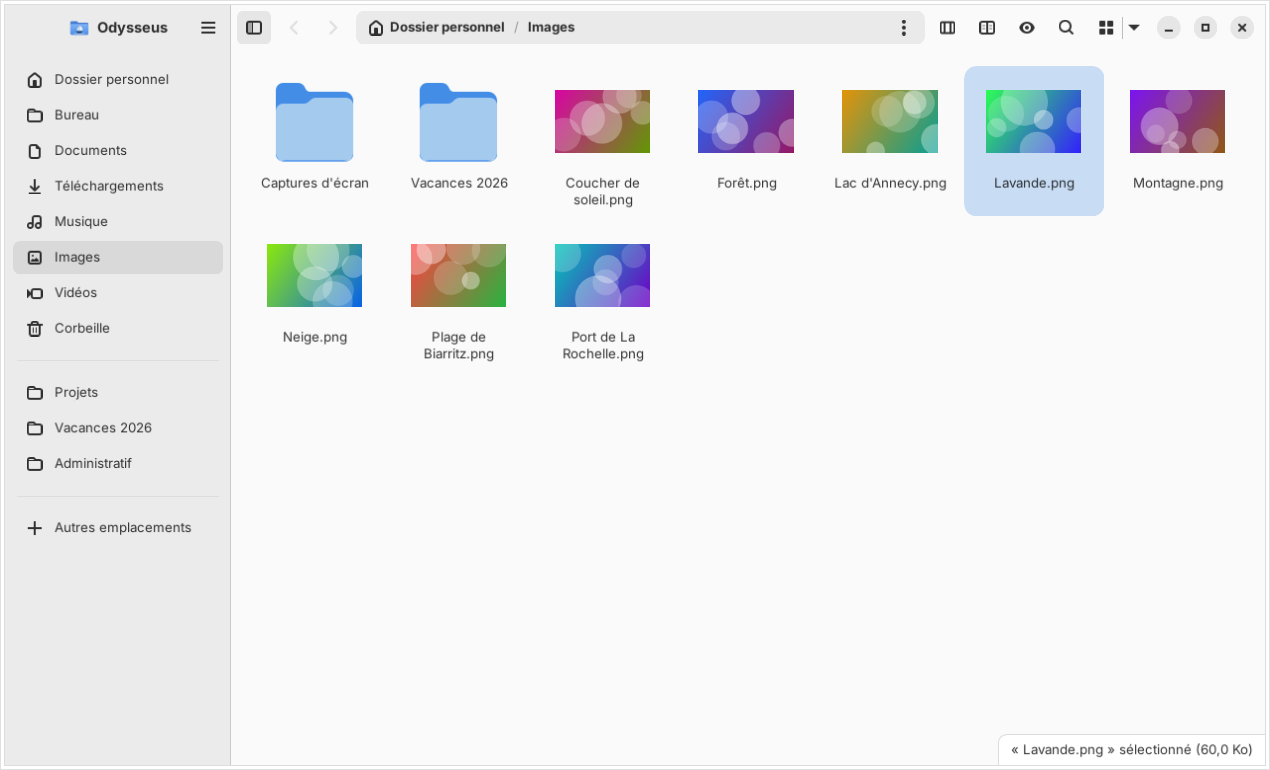
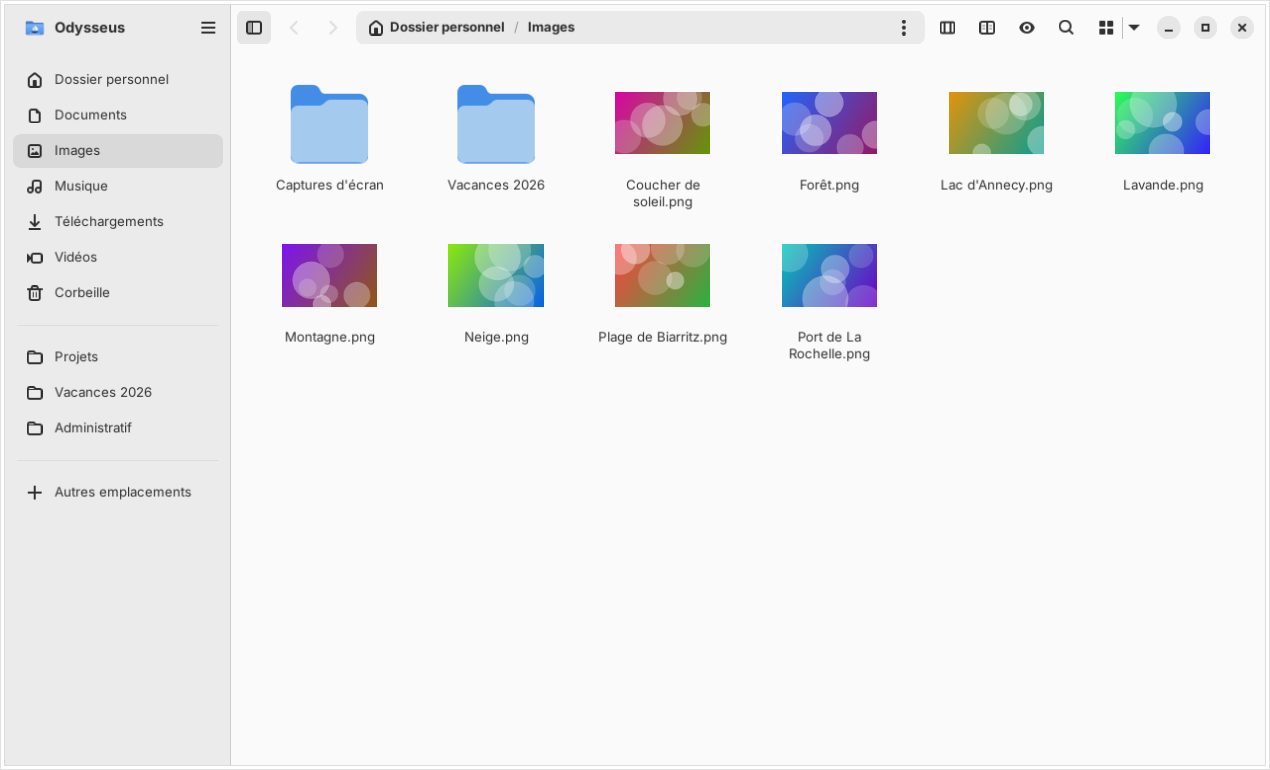
README et site à jour : renommage multiple, outils image, aperçu rapide, propriétés
Nouvelles captures (renommage, outils image, propriétés, grille de Nautilus 46),
deux sections et six cartes sur le site, version 1.3 ; screenshot.py --rename.

Claude-Session: https://claude.ai/code/session_01DLrkgZZZBUMYUUihuPcv9t

diff --git a/site/index.html b/site/index.html
@@ -4,7 +4,7 @@
 <meta charset="UTF-8">
 <meta name="viewport" content="width=device-width, initial-scale=1.0">
 <title>Odysseus — a fast file manager for GNOME</title>
-<meta name="description" content="Odysseus is a fast GTK4 / libadwaita file manager with twenty tools built in: dual panel, Miller columns, archives, content search & replace, PDF tools and more. Available now for Ubuntu 24.04, Zorin OS 18 and Linux Mint 22.">
+<meta name="description" content="Odysseus is a fast GTK4 / libadwaita file manager with thirty tools built in: dual panel, Miller columns, archives, content search & replace, batch rename, image and PDF tools, Quick Look and more. Available now for Ubuntu 24.04, Zorin OS 18 and Linux Mint 22.">
 <link rel="icon" href="img/icon.svg" type="image/svg+xml">
 <link rel="preconnect" href="https://fonts.googleapis.com">
 <link rel="preconnect" href="https://fonts.gstatic.com" crossorigin>
@@ -310,7 +310,7 @@
       <a href="#all">Everything</a>
       <a href="#install">Install</a>
       <a href="https://github.com/ToFpon/Odysseus">GitHub</a>
-      <a href="#install" class="get-pill">v1.0 · available</a>
+      <a href="#install" class="get-pill">v1.3 · available</a>
     </div>
   </div>
 </nav>
@@ -320,9 +320,9 @@
   <div class="hero-bg"></div>
   <div class="wrap hero-in">
     <img class="hero-icon" src="img/icon.svg" alt="Odysseus icon">
-    <span class="eyebrow"><span class="dot" style="background:var(--green);box-shadow:0 0 8px var(--green)"></span> Version 1.0 · GTK4 · libadwaita · GPL-3.0</span>
+    <span class="eyebrow"><span class="dot" style="background:var(--green);box-shadow:0 0 8px var(--green)"></span> Version 1.3 · GTK4 · libadwaita · GPL-3.0</span>
     <h1>More than a file manager.<br>Every <span class="accent">tool</span> on board.</h1>
-    <p class="lede">Odysseus is a fast file manager for GNOME. It looks and behaves like GNOME Files, and comes with twenty extensions built in: dual panel, Miller columns, an archive browser, content search &amp; replace, PDF tools and more. Every one of them can be switched off in a click.</p>
+    <p class="lede">Odysseus is a fast file manager for GNOME. It looks and behaves like GNOME Files, and comes with the tools Nautilus needs extensions for, built in: dual panel, Miller columns, an archive browser, content search &amp; replace, batch rename, image and PDF tools, Quick Look and more. Every one of them can be switched off in a click.</p>
     <div class="hero-actions">
       <a href="#install" class="btn btn-primary">Install on Ubuntu / Zorin</a>
       <a href="https://github.com/ToFpon/Odysseus" class="btn btn-ghost">Source code on GitHub</a>
@@ -440,6 +440,53 @@
         <img class="active" src="img/archive.png" alt="Browsing inside Holiday photos.zip" width="1270" height="770" loading="lazy">
         <img src="img/compress.png" alt="New archive dialog: 7Z format, LZMA2, AES-256 encryption" width="1270" height="810" loading="lazy">
       </div>
+    </div>
+  </div>
+</section>
+
+<!-- Batch rename & images -->
+<section class="feature">
+  <div class="wrap">
+    <div class="copy">
+      <div class="ftag">Batch Rename <span class="kbd">F2</span> · Image tools</div>
+      <h3>A hundred holiday photos, renamed and resized in two clicks.</h3>
+      <p class="intro">Select several files and press F2: the batch rename dialog of Nautilus 46, with a live preview. Then shrink, rotate or convert the pictures in a single pass.</p>
+      <div class="flist">
+        <div class="fi"><span class="chk">✓</span><span><b>Templates with tags</b> — original name, numbering (1, 01, 001), date taken, camera, artist, album, track…</span></div>
+        <div class="fi"><span class="chk">✓</span><span><b>Find and replace</b> in names, changes highlighted, conflicts flagged before anything is renamed.</span></div>
+        <div class="fi"><span class="chk">✓</span><span><b>One Ctrl+Z</b> undoes the whole batch, and an existing file is never overwritten.</span></div>
+        <div class="fi"><span class="chk">✓</span><span><b>Resize, rotate, convert</b> to JPEG, PNG, WebP… combined — phone HEIC photos to 1920 px JPEG at once.</span></div>
+      </div>
+    </div>
+    <div class="visual reveal tabbed" data-tabs>
+      <div class="tabs">
+        <button class="active" data-i="0">Batch rename</button>
+        <button data-i="1">Image tools</button>
+      </div>
+      <div class="shot">
+        <img class="active" src="img/rename.png" alt="Batch rename dialog: five photos renamed Summer holidays 01 to 05" width="1270" height="770" loading="lazy">
+        <img src="img/image-tools.png" alt="Resize Images dialog: scale 50%, rotate and convert options" width="1270" height="890" loading="lazy">
+      </div>
+    </div>
+  </div>
+</section>
+
+<!-- Quick Look & Properties -->
+<section class="feature alt flip">
+  <div class="wrap">
+    <div class="copy">
+      <div class="ftag">Quick Look <span class="kbd">Space</span> · Properties</div>
+      <h3>The little things you reach for every day.</h3>
+      <p class="intro">Press the space bar to preview a file with GNOME's previewer, exactly like in Nautilus. And the Properties window is laid out like Nautilus 46 — everything visible at a glance, no scrolling.</p>
+      <div class="flist">
+        <div class="fi"><span class="chk">✓</span><span><b>Quick Look</b> follows the arrow keys through the folder, from either window.</span></div>
+        <div class="fi"><span class="chk">✓</span><span><b>Custom folder icons</b>, shared with Nautilus.</span></div>
+        <div class="fi"><span class="chk">✓</span><span><b>Permissions on their own page</b>, with “Change Permissions for Enclosed Files…”.</span></div>
+        <div class="fi"><span class="chk">✓</span><span><b>Type to jump to a file</b>, Windows-style — optional, typing searches by default.</span></div>
+      </div>
+    </div>
+    <div class="visual reveal">
+      <div class="shot"><img src="img/properties.png" alt="Properties of the Holidays 2026 folder: size, free space, dates and permissions" width="1270" height="770" loading="lazy"></div>
     </div>
   </div>
 </section>
@@ -573,8 +620,8 @@
   <div class="wrap">
     <div class="sec-head">
       <div class="sec-tag">The full collection</div>
-      <h2>Twenty extensions. One application.</h2>
-      <p>Everything from the Nautilus Extensions collection, merged into Odysseus — and each one can be switched off.</p>
+      <h2>Thirty tools. One application.</h2>
+      <p>Everything from the Nautilus Extensions collection and more, merged into Odysseus — and each one can be switched off.</p>
     </div>
     <div class="egrid">
       <div class="ecard reveal"><div class="ei">🗂</div><h4>Dual Panel</h4><p>Two locations side by side, copy and move between them, drag &amp; drop.</p><code>F3</code></div>
@@ -583,6 +630,12 @@
       <div class="ecard reveal"><div class="ei">🔁</div><h4>Search &amp; Replace</h4><p>Content search with ripgrep, previewed replacement with backups.</p><code>F8</code></div>
       <div class="ecard reveal"><div class="ei">🗜</div><h4>Archives</h4><p>Browse, extract, compress and edit archives in 50+ formats.</p><code>F7</code></div>
       <div class="ecard reveal"><div class="ei">📦</div><h4>Extract Here</h4><p>One-click smart extraction, multi-volume and passwords included.</p><code>Ctrl+Shift+E</code></div>
+      <div class="ecard reveal"><div class="ei">🏷</div><h4>Batch Rename</h4><p>Templates, numbering, metadata tags or find and replace, with a live preview.</p><code>F2</code></div>
+      <div class="ecard reveal"><div class="ei">🖼</div><h4>Image Tools</h4><p>Resize, rotate and convert pictures, combined in one pass.</p><code>ImageMagick</code></div>
+      <div class="ecard reveal"><div class="ei">👀</div><h4>Quick Look</h4><p>Preview the selected file with Sushi, arrows move through the folder.</p><code>Space</code></div>
+      <div class="ecard reveal"><div class="ei">🔐</div><h4>Properties</h4><p>Laid out like Nautilus 46: custom folder icon, permissions, enclosed files.</p><code>Alt+Enter</code></div>
+      <div class="ecard reveal"><div class="ei">#⃣</div><h4>Checksums</h4><p>MD5, SHA-1, SHA-256, SHA-512 in one read; paste a checksum to compare.</p><code>.sha256</code></div>
+      <div class="ecard reveal"><div class="ei">⌨</div><h4>Type-ahead</h4><p>Type the start of a name to jump to the file, without filtering. Optional.</p><code>Preferences</code></div>
       <div class="ecard reveal"><div class="ei">🗜</div><h4>Compress PDF</h4><p>Ghostscript presets, real progress, before / after sizes.</p><code>PDF</code></div>
       <div class="ecard reveal"><div class="ei">🔗</div><h4>Merge PDF</h4><p>Any order, page ranges per file.</p><code>PDF</code></div>
       <div class="ecard reveal"><div class="ei">🔏</div><h4>Watermark PDF</h4><p>Text or image, nine positions or tiled, live preview, flattening.</p><code>PDF</code></div>
@@ -611,7 +664,7 @@
     <div class="sec-head">
       <div class="sec-tag">Install</div>
       <h2>Ready to sail.</h2>
-      <p>Odysseus 1.0 is available for <b>Ubuntu 24.04 “Noble”</b> and its derivatives — Zorin OS 18, Linux Mint 22 — from a PPA. Updates then arrive with the rest of your system.</p>
+      <p>Odysseus is available for <b>Ubuntu 24.04 “Noble”</b> and its derivatives — Zorin OS 18, Linux Mint 22 — from a PPA. Updates then arrive with the rest of your system.</p>
     </div>
     <div class="soon-card reveal">
       <div class="soon-top" style="position:relative">Terminal<button class="copy-btn" type="button" id="copy" title="Copy the two install commands" data-text="sudo add-apt-repository ppa:nourpon/odysseus&#10;sudo apt update &amp;&amp; sudo apt install odysseus">Copy</button></div>

diff --git a/tools/screenshot.py b/tools/screenshot.py
@@ -5,6 +5,7 @@
 
 Options : --dual --other=chemin --grid --columns --preview --zoom=N --select=nom1,nom2 --action=win.xxx
           --prefs=page --dark --delay=ms --size=LxH --search=texte [--replace=texte]
+          --rename=modèle (avec --action=win.rename sur plusieurs éléments)
 """
 import os
 import sys
@@ -80,6 +81,16 @@ def on_ready(win):
             win.pane.select_names(opts["select"].split(","))
         if "action" in opts:
             GLib.timeout_add(300, lambda: (win.activate_action(opts["action"], None), False)[1])
+        if "rename" in opts:
+            # renommage multiple : modèle rempli (« {num2} » : la balise de numérotation 01, 02, 03…)
+            def fill():
+                from odysseus.backend import batchrename as br
+                from odysseus.ui.batch_rename import BatchRenameDialog
+                for d in Gtk.Window.list_toplevels():
+                    if isinstance(d, BatchRenameDialog):
+                        d.name_entry.set_text(opts["rename"].format(num2=br.tag_text("num2")))
+                return False
+            GLib.timeout_add(700, fill)
         if "search" in opts:
             # recherche dans le contenu (fenêtre à part) : remplie, lancée, et c'est elle qu'on capture
             from odysseus.ui.search_dialog import ContentSearchWindow

diff --git a/CLAUDE.md b/CLAUDE.md
@@ -148,11 +148,12 @@ de 3 s, un fil est ajouté (6 au plus).
 
 Captures (Gtk.WidgetPaintable) : `xvfb-run -a python3.12 tools/screenshot.py SORTIE.png [--dual]
 [--other=DOSSIER] [--grid] [--columns] [--preview] [--select=NOMS] [--action=ACTION] [--prefs=PAGE]
-[--dark] [--delay=S] [--size=LxH]` ; captures de la documentation dans `docs/captures/`, faites sur le
+[--dark] [--delay=S] [--size=LxH] [--rename=MODÈLE]` (`--rename` avec `--action=win.rename` : modèle
+rempli, « {num2} » = balise 01, 02…) ; captures de la documentation dans `docs/captures/`, faites sur le
 dossier personnel de démonstration de `tools/demo-home.py` (HOME pointé dessus, LANGUAGE=fr,
 settings.json remis à zéro avant chaque capture : la vue et le double panneau sont mémorisés).
 Les dialogues ouverts (fenêtres posées sur la principale) sont composés au centre de la capture.
-Site de présentation (`site/index.html`, anglais ; version 1.0 publiée : installation par le PPA,
+Site de présentation (`site/index.html`, anglais ; version affichée dans la pastille et l'accroche, à tenir à jour ; installation par le PPA,
 liens GitHub et Launchpad ; « Copy » ne copie que les deux commandes d'installation) : captures de
 `site/img/` faites en anglais et en sombre (`--dark`, sauf `light.png`) sur `tools/demo-home.py
 /home/tof --en` (chemin court : il s'affiche dans la recherche) ; `--search=… --replace=…` capture la
